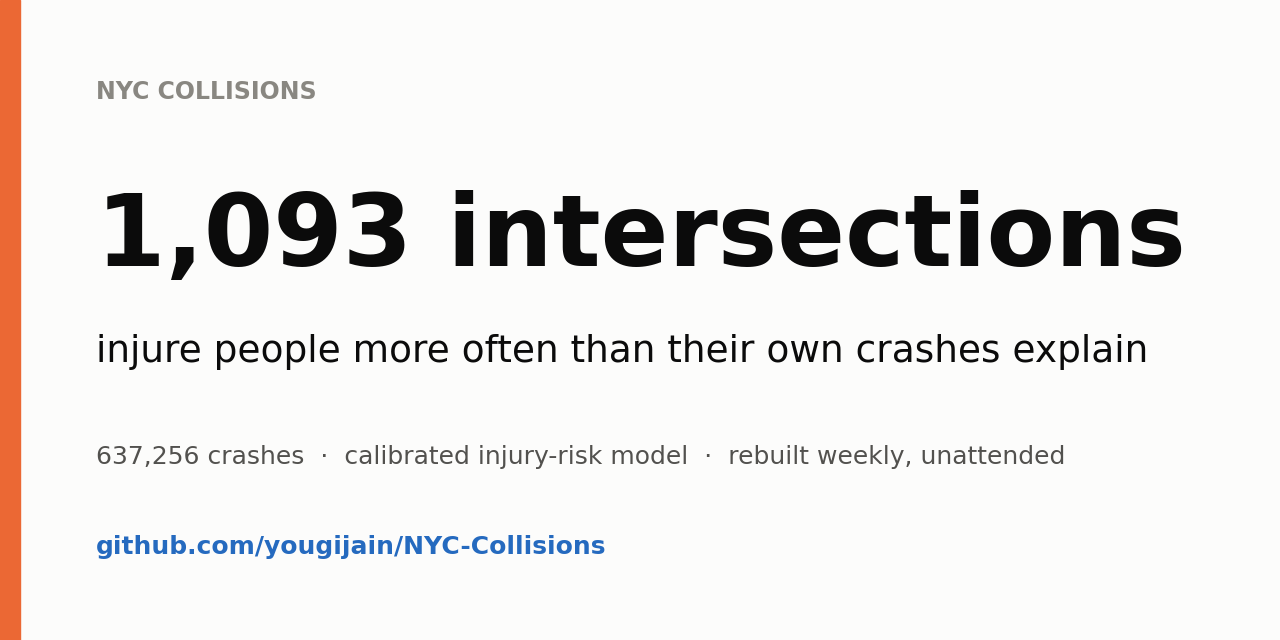
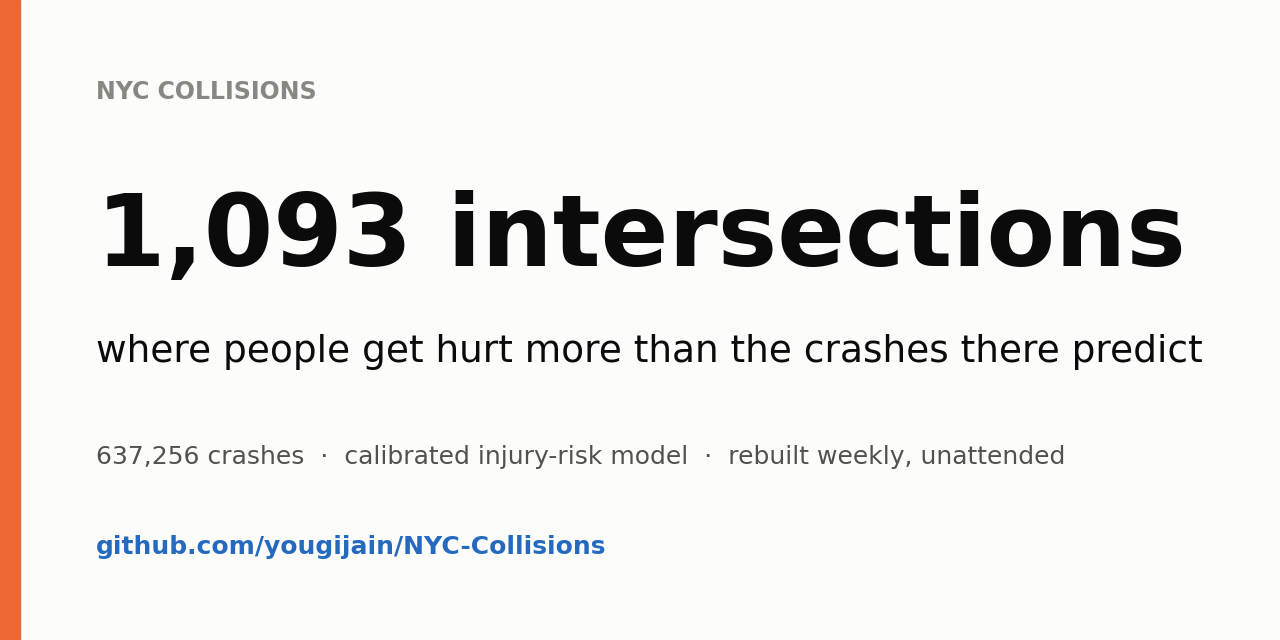
docs: say what the finding means without circling back on itself
The headline claimed intersections "injure people more often than their
own crashes account for", which reads as crashes explaining crashes and
tells a reader nothing. It also counted intersections "out of" crashes,
which are not the same kind of thing.

What the model actually compares is the injury rate against the *kinds*
of crashes at a site, so that is what the wording now says: people get
hurt there more often than the kinds of crashes happening there would
predict. One phrasing across the README, the dashboard, the social card
and the generated blocks, instead of four near-misses at the same idea.

Changed region(s): [[0.0625, 0.5312, 0.9375, 0.5938]]

diff --git a/scripts/sync_docs.py b/scripts/sync_docs.py
@@ -153,11 +153,12 @@ def feature_importance(metrics: Dict) -> str:
 def finding_headline(facts: Dict, summary: Dict) -> str:
     """The one sentence a reader gets before deciding to keep reading."""
     return (
-        f"**{summary['sites']:,} intersections** out of "
-        f"**{facts['rows']:,} crashes** since 2020 injure people more often "
-        f"than their own crashes account for. The worst of them runs "
-        f"**{summary['worst_excess'] * 100:.0f} percentage points** above "
-        f"what its mix of crashes predicts."
+        f"Across **{facts['rows']:,} crashes** since 2020, "
+        f"**{summary['sites']:,} intersections** stand out: people get hurt "
+        f"there more often than the kinds of crashes happening there would "
+        f"predict. At the worst of them, "
+        f"**{summary['worst_excess'] * 100:.0f} percentage points** more "
+        f"often."
     )
 
 

diff --git a/app/views/finding.py b/app/views/finding.py
@@ -16,7 +16,7 @@ def exposure_caveat() -> str:
         + exposure_claim(*exposure_data())
         + " Every rate here is per crash, never per vehicle passing "
           "through. It says one thing only: these sites injure people more "
-          "often than their crash mix explains."
+          "often than the kinds of crashes happening there would predict."
     )
 
 
@@ -40,7 +40,7 @@ def render(con, bounds: pd.Series, metrics: pd.Series) -> None:
         f"factors, the road type, the hour. Never from where it "
         f"happened. Comparing that against what actually happened leaves "
         f"**{summary.get('sites', len(sites)):,} intersections** where more "
-        f"crashes injured someone than their circumstances account for."
+        f"crashes injured someone than the kinds of crashes there would predict."
     )
 
     preview = sites.head(PREVIEW_SITES).copy()

diff --git a/app/views/watchlist.py b/app/views/watchlist.py
@@ -173,8 +173,8 @@ def _exposure_caveat() -> None:
          "**This is not a ranking of dangerous intersections.** ")
         + exposure_claim(exposure, summary)
         + " So a site high on this list is one whose crashes injure people "
-          "more often than their circumstances account for, not a site you "
-          "are most likely to be hurt at."
+          "more often than the kinds of crashes happening there would predict, "
+          "not a site you are most likely to be hurt at."
     )
 
 

diff --git a/scripts/build_social_card.py b/scripts/build_social_card.py
@@ -40,7 +40,7 @@ ax.text(0.075, 0.845, "NYC COLLISIONS", color=palette.INK_MUTED,
 
 ax.text(0.075, 0.585, f"{wl['sites']:,} intersections", color=palette.INK,
         fontsize=72, fontweight="bold", **t)
-ax.text(0.075, 0.435, "injure people more often than their own crashes explain",
+ax.text(0.075, 0.435, "where people get hurt more than the crashes there predict",
         color=palette.INK, fontsize=27, **t)
 
 ax.text(0.075, 0.275,

diff --git a/README.md b/README.md
@@ -8,7 +8,7 @@
  (first visit may take a moment to wake the app)
 
 <!-- generated:finding-headline -->
-**1,093 intersections** out of **637,256 crashes** since 2020 injure people more often than their own crashes account for. The worst of them runs **28 percentage points** above what its mix of crashes predicts.
+Across **637,256 crashes** since 2020, **1,093 intersections** stand out: people get hurt there more often than the kinds of crashes happening there would predict. At the worst of them, **28 percentage points** more often.
 <!-- /generated:finding-headline -->
 
 ![The dashboard's landing page: headline figures, the worst intersections, and
@@ -27,8 +27,8 @@ row in the data. They are not the same event. Every crash here gets a score
 for how likely it was to hurt somebody, based only on what was involved: the
 vehicles, the cause the officer wrote down, the type of road, the hour. Never
 on where it happened. Each intersection is then held against its own crashes.
-When a junction injures people more often than its own mix of crashes
-predicts, something about the place is worth a look.
+When people get hurt at a junction more often than the kinds of crashes
+happening there would predict, the place is worth a look.
 
 Think of it as a screening tool rather than a verdict. Tens of thousands of
 junctions narrow to a list short enough for one person to work through, and
@@ -45,8 +45,8 @@ sites they reach. Ranking by that rate gives a substantially different order.
 Over the 425 sites a counter reaches, the two orderings agree at a rank correlation of only **0.27**.
 <!-- /generated:exposure-lede -->
 
-A site near the top of this list has crashes that injure people more often
-than their circumstances account for. That is a different claim from being
+A site near the top of this list hurts people more often than the kinds of
+crashes happening there would predict. That is a different claim from being
 the place you are most likely to get hurt. [The full measurement is further
 down](#what-it-does-not-prove).
 
@@ -248,8 +248,9 @@ It is also why the watchlist is not re-ranked by it. A recorder sits on one segm
 <!-- /generated:exposure-coverage -->
 
 Read the list as what it is: sites whose crashes injure people more often than
-their circumstances account for. Read it as a screening question rather than
-a verdict, and not as the site you are most likely to be hurt at.
+the kinds of crashes happening there would predict. Read it as a screening
+question rather than a verdict, and not as the site you are most likely to
+be hurt at.
 
 What would close the gap is a count at every approach to a junction rather
 than on one segment of one street, taken in the window the crashes are drawn
